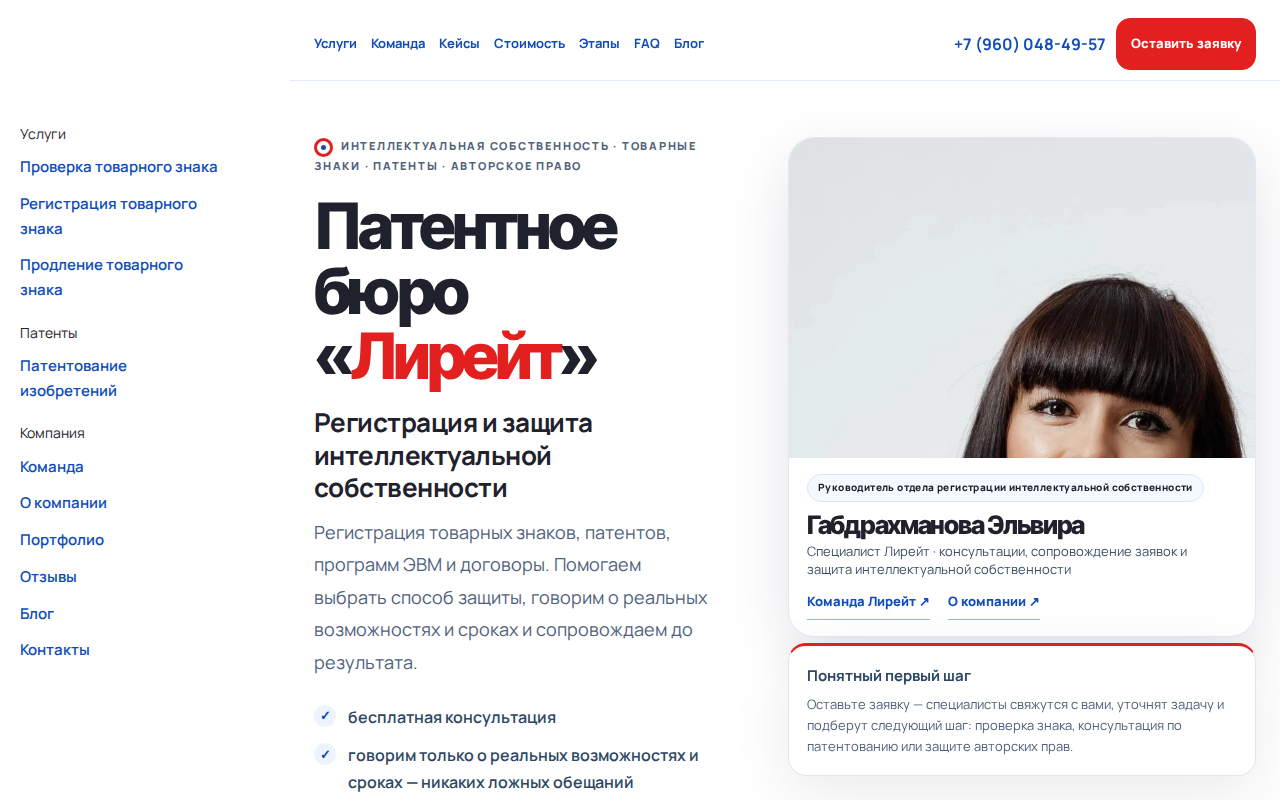
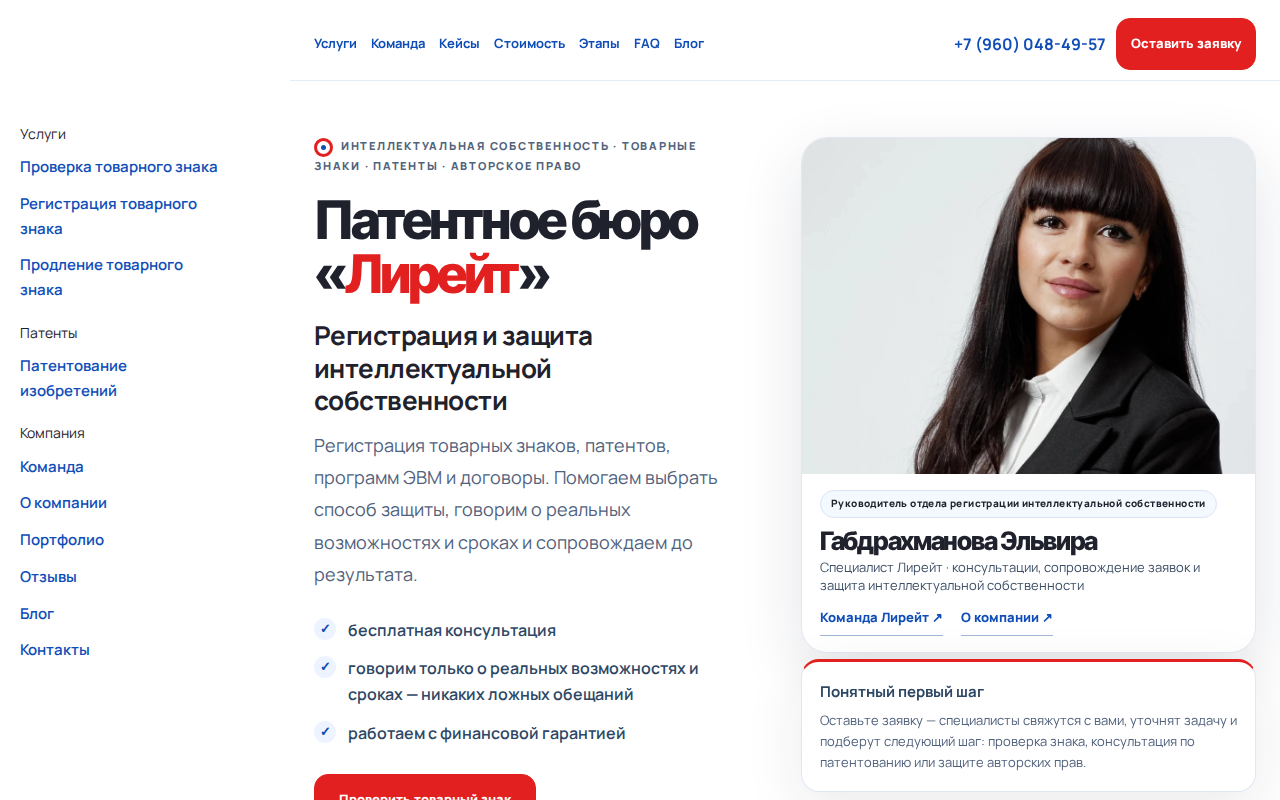
fix(home): hero portrait framing on wide card, H1 two lines (r27) (#125)
Reduce zoom and re-anchor cover crop for 48vw frame; keep full
head-to-chest view. Slightly narrow card column and H1 size for two-line title.

Changed region(s): [[0.625, 0.1562, 1.0, 0.9688], [0.2188, 0.25, 0.5625, 1.0], [0.5938, 0.1875, 0.625, 0.2188]]

diff --git a/template/css/lireate-home-light-v4.css b/template/css/lireate-home-light-v4.css
@@ -843,3 +843,45 @@ body.lireate-home-light-v4.lireate-theme-light-v4 .lh4-root .hero-right .expert-
   font-size:clamp(24px,2vw,28px);
 }
 }
+/* r27: широкая рамка r26, кадр голова–грудь; H1 в две строки */
+@media (min-width: 861px) {
+body.lireate-home-light-v4.lireate-theme-light-v4 .lh4-root .hero-grid{
+  grid-template-columns:minmax(0,.92fr) minmax(0,1.08fr);
+}
+body.lireate-home-light-v4.lireate-theme-light-v4 .lh4-root .hero h1{
+  font-size:clamp(38px,4.15vw,64px);
+  max-width:min(52vw,640px);
+  letter-spacing:-.055em;
+}
+body.lireate-home-light-v4.lireate-theme-light-v4 .lh4-root .hero-right{
+  max-width:min(48vw,455px);
+}
+body.lireate-home-light-v4.lireate-theme-light-v4 .lh4-root .hero-right .expert-photo,
+body.lireate-home-light-v4.lireate-theme-light-v4 .lh4-root .hero-right .expert-photo picture,
+body.lireate-home-light-v4.lireate-theme-light-v4 .lh4-root .hero-right .expert-photo img{
+  max-height:min(47vh,495px);
+}
+body.lireate-home-light-v4.lireate-theme-light-v4 .lh4-root .hero-right .expert-photo img{
+  object-position:50% 26% !important;
+  transform:scale(1.34) !important;
+  transform-origin:50% 30% !important;
+}
+body.lireate-home-light-v4.lireate-theme-light-v4 .lh4-root .hero-right .expert-card:hover .expert-photo img{
+  transform:scale(1.34) !important;
+}
+}
+@media (min-width: 861px) and (max-height: 920px) {
+body.lireate-home-light-v4.lireate-theme-light-v4 .lh4-root .hero-right .expert-photo,
+body.lireate-home-light-v4.lireate-theme-light-v4 .lh4-root .hero-right .expert-photo picture,
+body.lireate-home-light-v4.lireate-theme-light-v4 .lh4-root .hero-right .expert-photo img{
+  max-height:min(42vh,438px);
+}
+body.lireate-home-light-v4.lireate-theme-light-v4 .lh4-root .hero-right .expert-photo img{
+  object-position:50% 24% !important;
+  transform:scale(1.28) !important;
+  transform-origin:50% 28% !important;
+}
+body.lireate-home-light-v4.lireate-theme-light-v4 .lh4-root .hero-right .expert-card:hover .expert-photo img{
+  transform:scale(1.28) !important;
+}
+}

diff --git a/scripts/test_lireate_home_hero_photo.py b/scripts/test_lireate_home_hero_photo.py
@@ -43,11 +43,10 @@ class HomeHeroPhotoTests(unittest.TestCase):
             css,
             r"\.hero-right \.expert-photo img\{[^}]*object-fit:cover",
         )
-        self.assertRegex(css, r"object-position:\s*50%\s*2%")
-        self.assertIn("transform:scale(1.78)", css.replace(" ", ""))
         compact = css.replace(" ", "")
-        self.assertIn("max-height:min(46vh,480px)", compact)
-        self.assertIn("max-width:min(50vw,468px)", compact)
+        self.assertIn("transform:scale(1.34)", compact)
+        self.assertIn("object-position:50%26%", compact)
+        self.assertIn("max-width:min(48vw,455px)", compact)
         self.assertNotIn("aspect-ratio:10/13", compact)
 
     def test_head_snippet_preloads_hero_image(self):

diff --git a/scripts/test_lireate_light_v4_shared_asset_version.py b/scripts/test_lireate_light_v4_shared_asset_version.py
@@ -86,7 +86,7 @@ class LightV4SharedAssetVersionTests(unittest.TestCase):
         """Home hero CSS has its own cache-bust token (r21+) in the main.php head snippet."""
         import lireate_home_light_v4_install_lib as home_lib
 
-        self.assertEqual("20261126r26", ver.HOME_CSS_VERSION)
+        self.assertEqual("20261126r27", ver.HOME_CSS_VERSION)
         snippet = home_lib._head_snippet()
         self.assertIn(
             "/template/css/lireate-home-light-v4.css?v={0}".format(ver.HOME_CSS_VERSION), snippet

diff --git a/pages/home/_preview/cms-shell.php b/pages/home/_preview/cms-shell.php
@@ -9,7 +9,7 @@ putenv('LIREATE_PUBLIC_SITE_URL');
 putenv('LIREATE_PUBLIC_SITE_HOST');
 require_once $repo_root . '/pages/_shared/lireate-preview-bootstrap.php';
 require_once $repo_root . '/pages/home/_shared/lireate-home-config.php';
-$lh_preview_v = defined('LIREATE_HOME_CSS_VERSION') ? LIREATE_HOME_CSS_VERSION : '20261126r26';
+$lh_preview_v = defined('LIREATE_HOME_CSS_VERSION') ? LIREATE_HOME_CSS_VERSION : '20261126r27';
 if (!defined('LIREATE_HOME_PREVIEW')) {
     define('LIREATE_HOME_PREVIEW', true);
 }

diff --git a/scripts/lireate_light_v4_asset_version.py b/scripts/lireate_light_v4_asset_version.py
@@ -5,4 +5,4 @@ MAIN_JS_QUERY_VERSION = "20261126r20"
 # Home hero CSS only (template/css/lireate-home-light-v4.css): bumped separately so live
 # cache-bust is a one-line change in template/main.php (head snippet marker
 # lireate-home-light-v4-install-head:v1).
-HOME_CSS_VERSION = "20261126r26"
+HOME_CSS_VERSION = "20261126r27"

diff --git a/pages/home/_shared/lireate-home-config.php b/pages/home/_shared/lireate-home-config.php
@@ -50,5 +50,5 @@ if (!defined('LIREATE_HOME_TEMPLATE_VERSION')) {
     define('LIREATE_HOME_TEMPLATE_VERSION', '20261126r20');
 }
 if (!defined('LIREATE_HOME_CSS_VERSION')) {
-    define('LIREATE_HOME_CSS_VERSION', '20261126r26');
+    define('LIREATE_HOME_CSS_VERSION', '20261126r27');
 }

diff --git a/template/page/home/lireate-home-config.php b/template/page/home/lireate-home-config.php
@@ -50,5 +50,5 @@ if (!defined('LIREATE_HOME_TEMPLATE_VERSION')) {
     define('LIREATE_HOME_TEMPLATE_VERSION', '20261126r20');
 }
 if (!defined('LIREATE_HOME_CSS_VERSION')) {
-    define('LIREATE_HOME_CSS_VERSION', '20261126r26');
+    define('LIREATE_HOME_CSS_VERSION', '20261126r27');
 }
